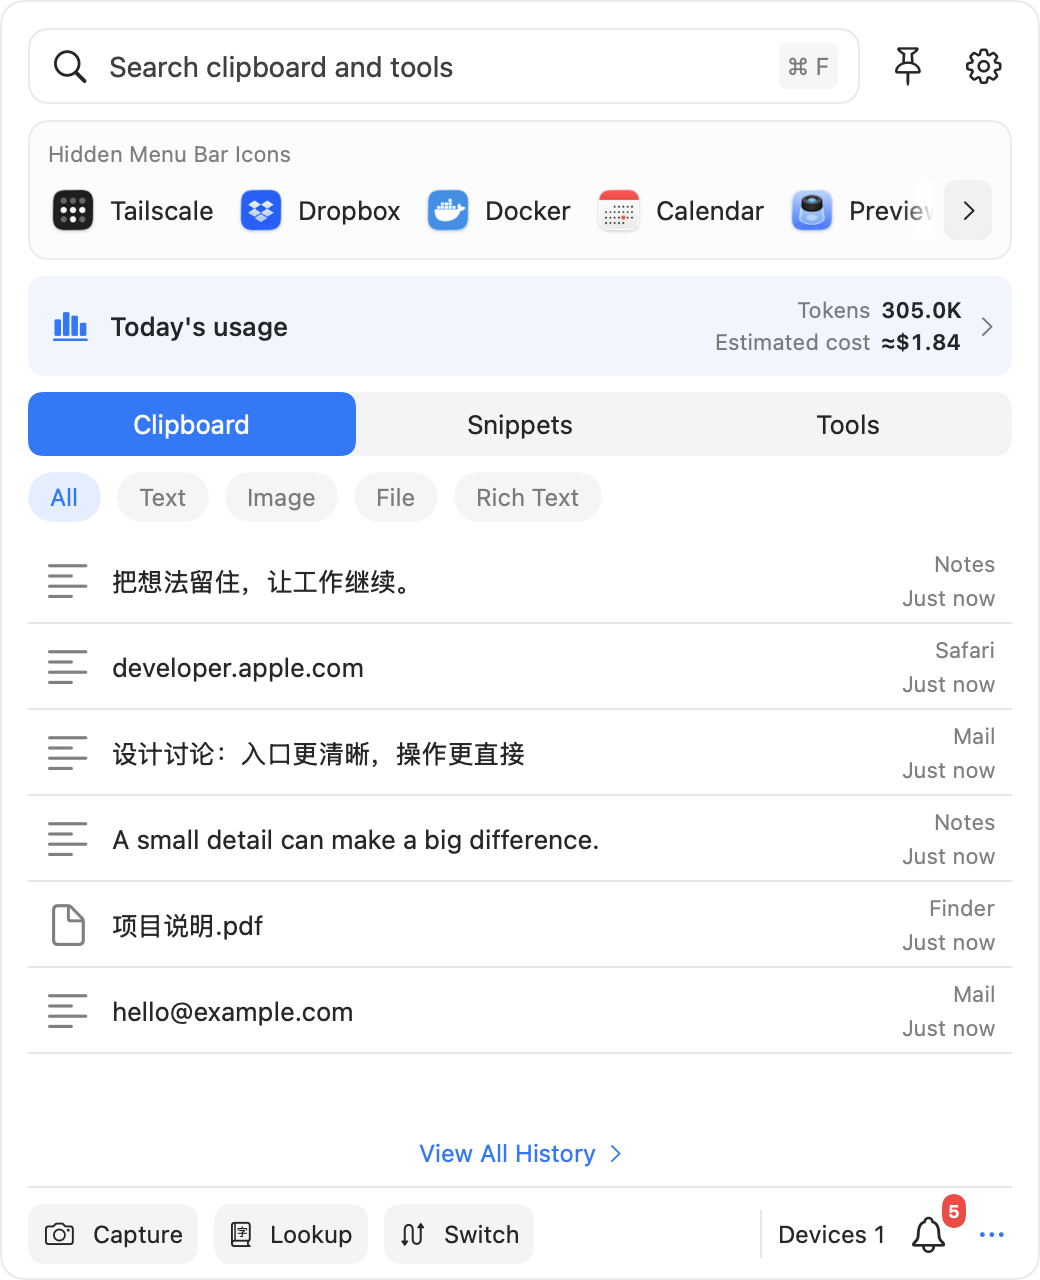
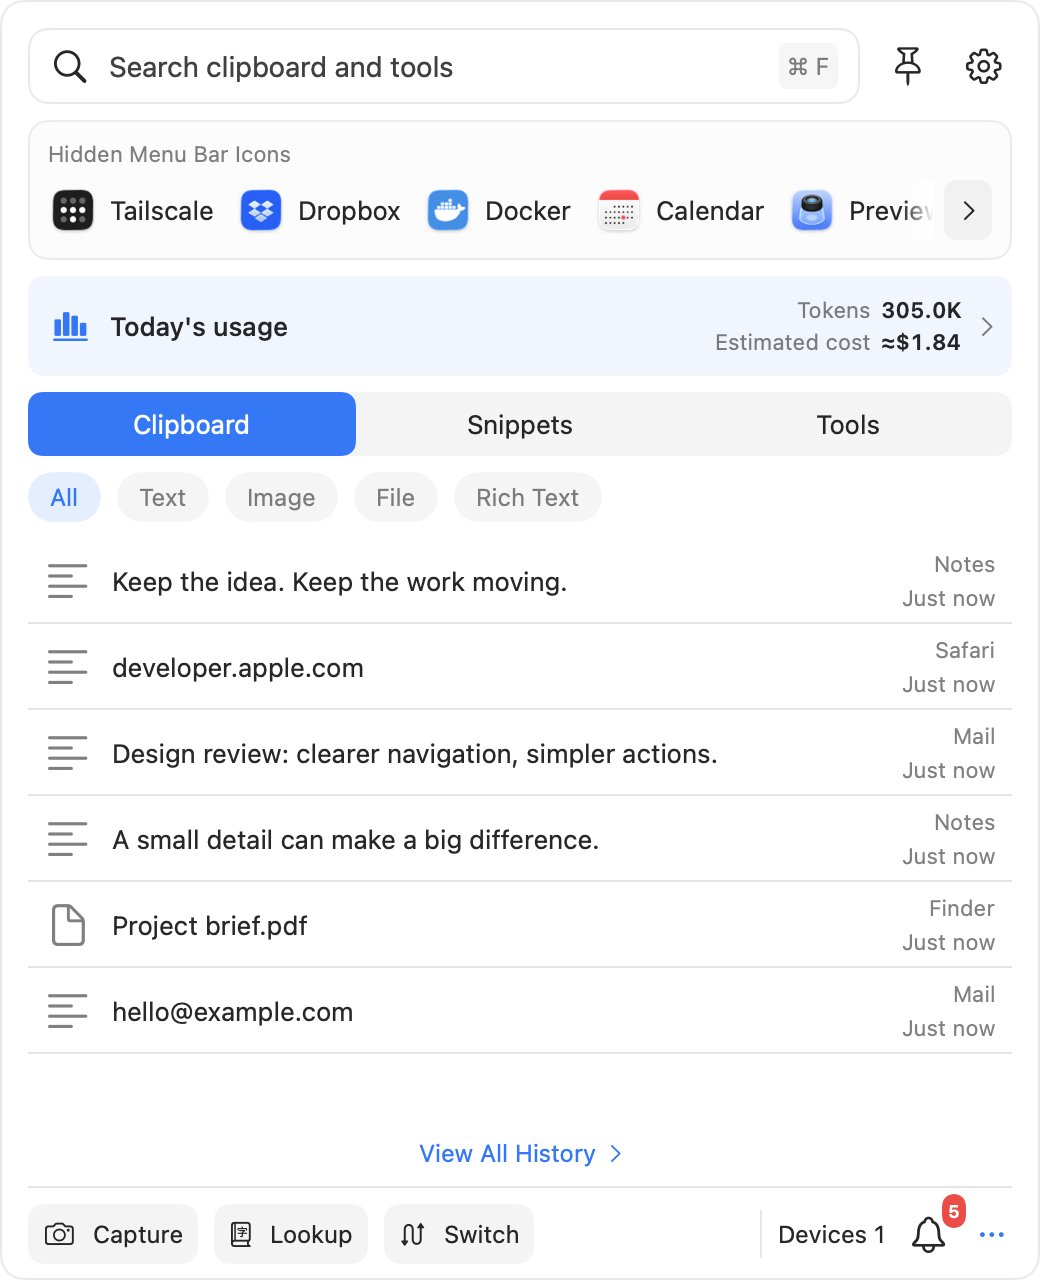
docs: use English examples in README panel screenshot

Changed region(s): [[0.0923, 0.5625, 0.6769, 0.5938], [0.0923, 0.4375, 0.5538, 0.4688], [0.0923, 0.7188, 0.3077, 0.75]]

diff --git a/clipy_macos/Tests/MenuBarPanelRegression.swift b/clipy_macos/Tests/MenuBarPanelRegression.swift
@@ -103,6 +103,14 @@ func runMenuBarPanelSnapshot() -> Never {
         .init(item: .files([URL(fileURLWithPath: "/tmp/Example/项目说明.pdf")]), date: Date(), sourceApp: "Finder", contentHash: "fixture-5"),
         .init(item: .text("hello@example.com"), date: Date(), sourceApp: "Mail", contentHash: "fixture-6")
     ]
+    let englishSamples: [HistoryEntry] = [
+        .init(item: .text("Keep the idea. Keep the work moving."), date: Date(), sourceApp: "Notes", contentHash: "fixture-en-1"),
+        .init(item: .text("developer.apple.com"), date: Date(), sourceApp: "Safari", contentHash: "fixture-en-2"),
+        .init(item: .text("Design review: clearer navigation, simpler actions."), date: Date(), sourceApp: "Mail", contentHash: "fixture-en-3"),
+        .init(item: .text("A small detail can make a big difference."), date: Date(), sourceApp: "Notes", contentHash: "fixture-en-4"),
+        .init(item: .files([URL(fileURLWithPath: "/tmp/Example/Project brief.pdf")]), date: Date(), sourceApp: "Finder", contentHash: "fixture-en-5"),
+        .init(item: .text("hello@example.com"), date: Date(), sourceApp: "Mail", contentHash: "fixture-en-6")
+    ]
     final class Provider: MenuBarOverflowProviding {
         func scan(_ context: MenuBarOverflowContext, cancellation: MenuBarOverflowCancellation) -> MenuBarOverflowScan {
             let examples = [
@@ -123,7 +131,9 @@ func runMenuBarPanelSnapshot() -> Never {
     let overflow = MenuBarOverflowManager(provider: Provider(), environment: .init(loadEnabled: { true }, saveEnabled: { _ in }, availability: { nil }, context: {
         .init(geometry: .init(screen: CGRect(x: 0, y: 0, width: 1512, height: 945), barHeight: 24, rightAreaMinX: 800), applications: [], frontPID: nil)
     }, monitorInput: { _ in nil }))
-    let model = MenuBarPanelModel(search: { _, _ in samples })
+    let model = MenuBarPanelModel(search: { _, _ in
+        PreferencesManager.shared.appLanguage == .en ? englishSamples : samples
+    })
     model.begin()
     model.folders = [.init(id: UUID(), title: "工作", snippets: [.init(id: UUID(), title: "邮件落款", content: "谢谢，祝工作顺利！", shortcut: nil)])]
     model.devices = [.init(displayName: "Pixel 9", peerId: "fixture", originalName: "Pixel 9")]
@@ -160,6 +170,9 @@ func runMenuBarPanelSnapshot() -> Never {
     func prepare() {
         UserDefaults.standard.setVolatileDomain(["appLanguage": step == 4 ? "en" : "zh"], forName: UserDefaults.argumentDomain)
         NotificationCenter.default.post(name: .appLanguageDidChange, object: nil)
+        // UI localization alone does not translate example clipboard contents.
+        // Reload the locale-specific fixture before the next native capture.
+        model.refreshHistory()
         let dark = step == 2 || step == 3 || step == 5 || step == 6
         window.appearance = NSAppearance(named: dark ? .darkAqua : .aqua)
         model.page = step == 3 ? .devices : (step == 5 || step == 6 ? .notifications : .home)

diff --git a/res/screenshots/README.md b/res/screenshots/README.md
@@ -19,6 +19,8 @@ The older showcase images use AI-assisted presentation styling: a shared ivory, 
 
 Regenerate panel and Token Usage fixtures with `CLIPY_PANEL_SNAPSHOT_DIR=/tmp/clipy-panel-snapshots CLIPY_TOKEN_SNAPSHOT_DIR=/tmp/clipy-token-snapshots bash scripts/test_macos_core.sh`. Copy `english-history.png` and `light-history.png` from the panel directory, and `light-populated-en.png` and `light-populated.png` from the Token directory, to the respective README assets. Keep both README files in sync when replacing images. Screenshots describe the source build and may include changes not yet in a published release.
 
+Panel fixtures localize both the interface and fictional clipboard contents/file names. The English README panel must contain English examples throughout; the Chinese README keeps its Chinese examples. Reload the fixture history after switching languages before rendering.
+
 Token fixtures include a full year of fictional daily usage and light/dark, empty and narrow-window variants. Add `CLIPY_TOKEN_SNAPSHOT_HOLD=1` to keep the isolated Token window open after rendering for hover, click, scrolling and Agent-filter checks; close that preview window to finish the test process. No user activity logs are scanned.
 
 ## Android source previews
